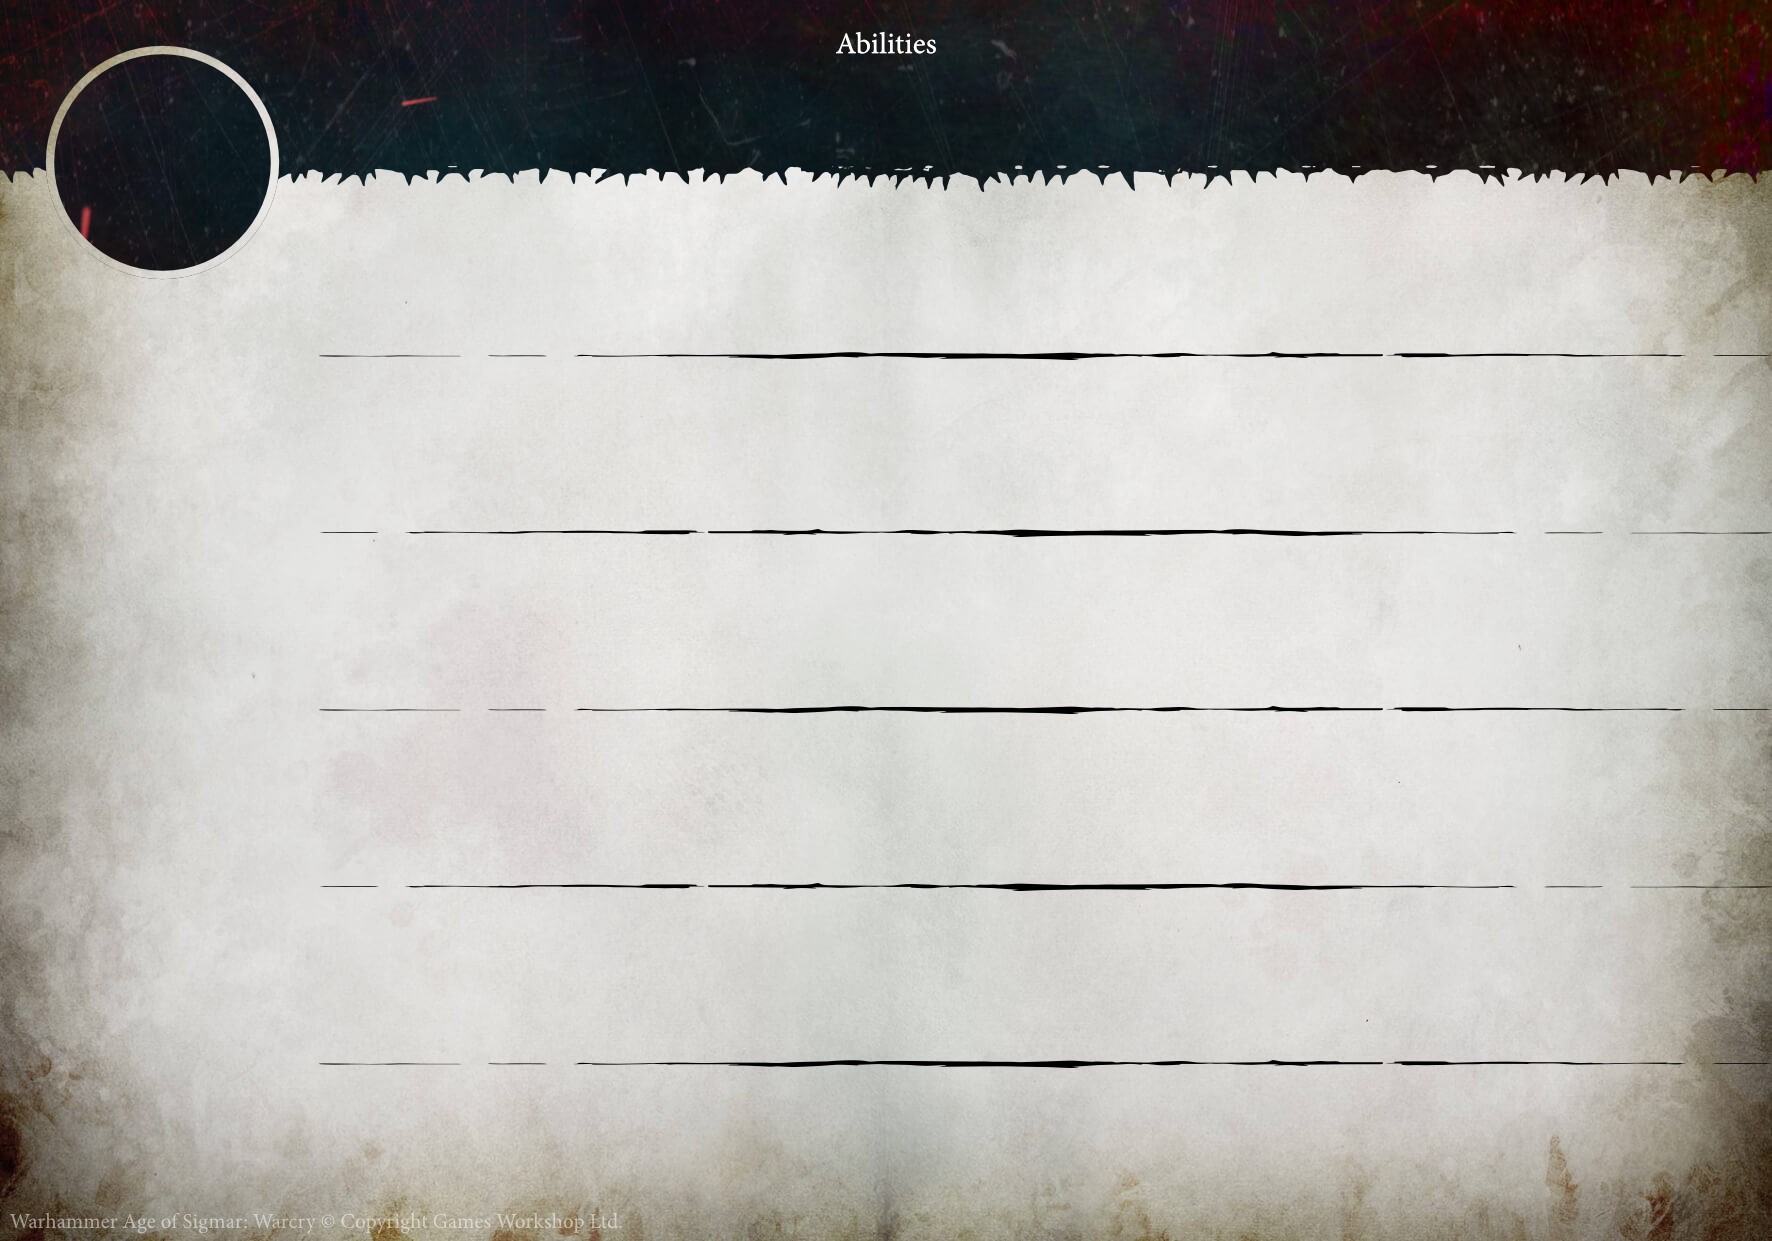
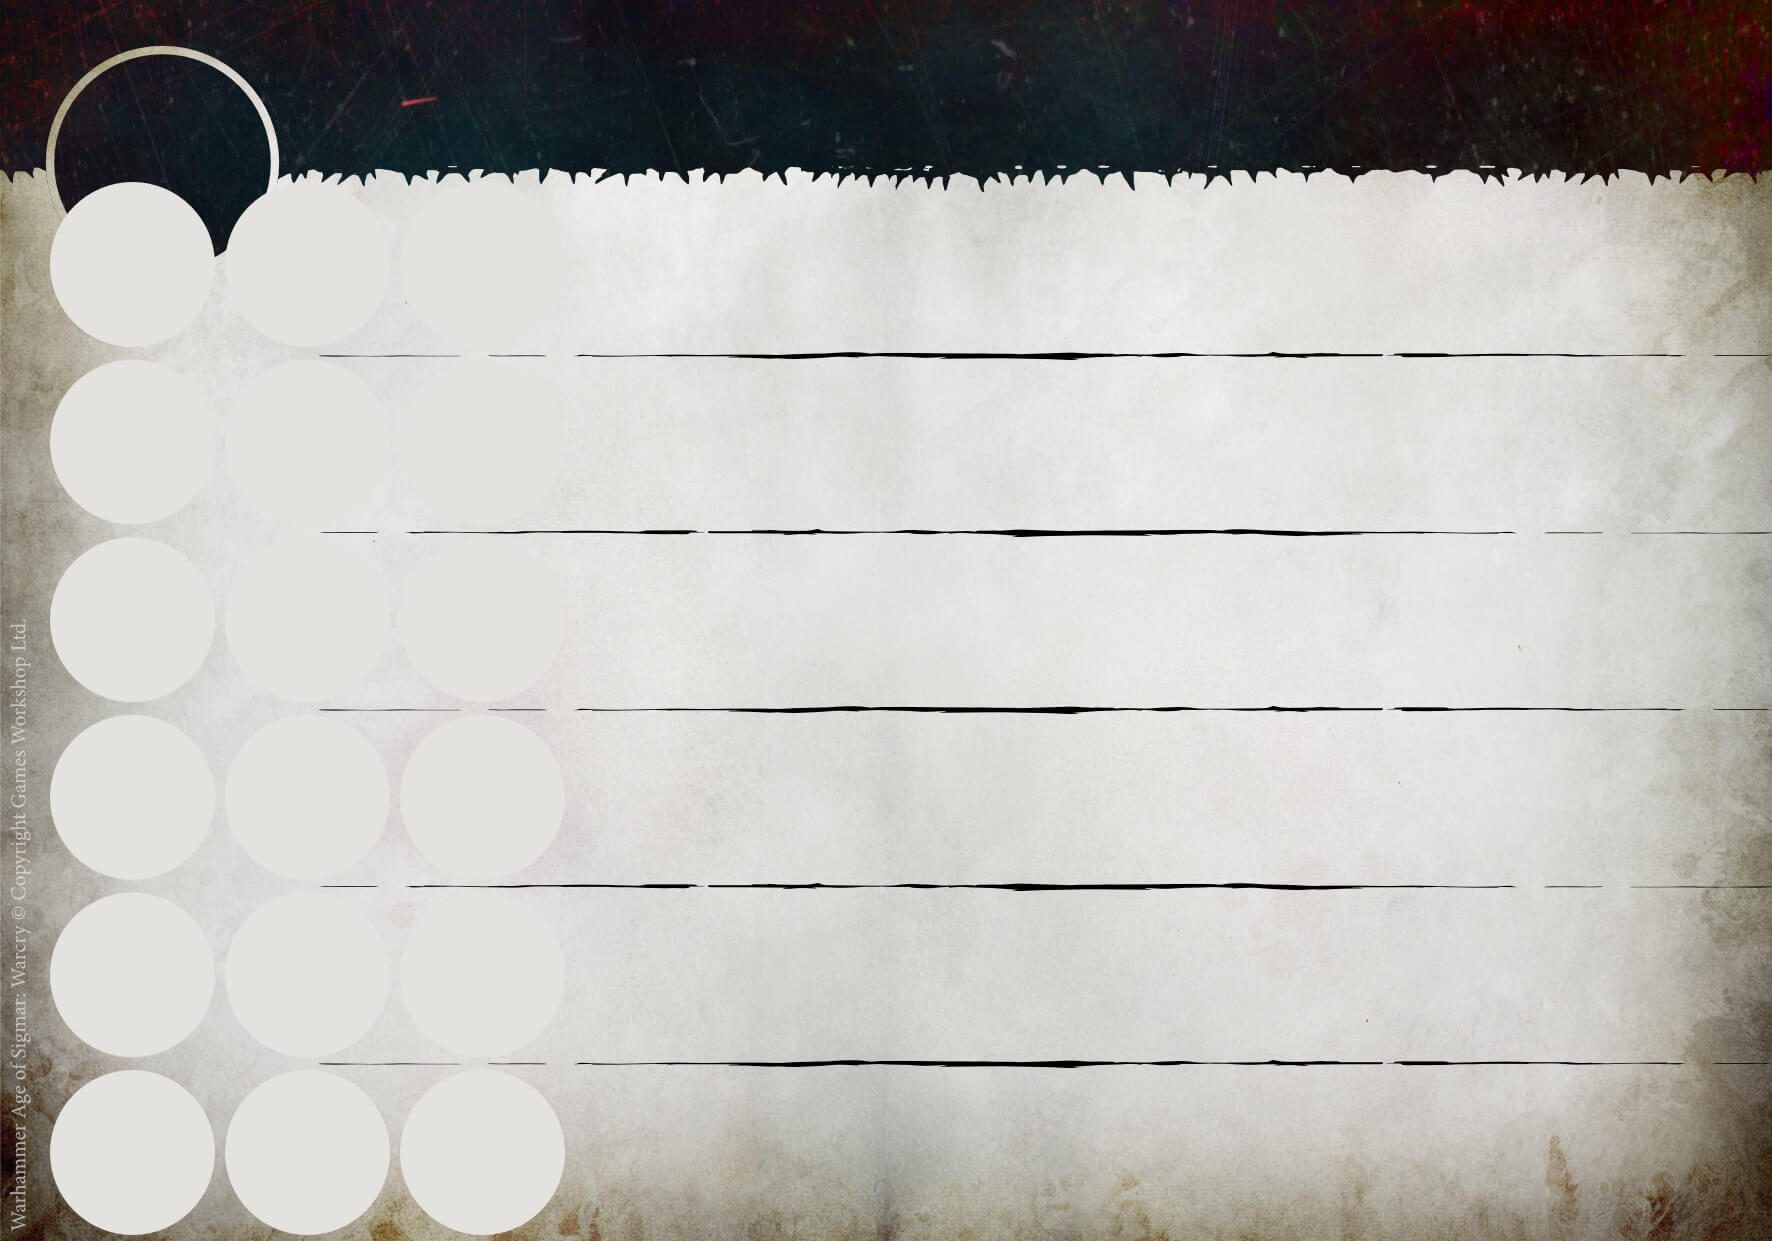
added subtitle to abilities, edited card layout, work-in-progress

Changed region(s): [[0.0, 0.1225, 0.3414, 1.0], [0.4656, 0.0306, 0.5277, 0.0612]]

diff --git a/_includes/abilities/section-abilities.html b/_includes/abilities/section-abilities.html
@@ -46,7 +46,7 @@
                                 <label class="form-check-label" for="ability1-quad">Quad</label>
                             </div>
                             <div class="form-check form-check-inline">
-                                <input class="form-check-input" id="ability1-none" name="ability1-dice" oninput="onAnyChange()" type="radio" value="">
+                                <input class="form-check-input" id="ability1-none" name="ability1-dice" oninput="onAnyChange()" type="radio" value="none">
                                 <label class="form-check-label" for="ability1-none">None</label>
                             </div>
                             <div class="form-group">
@@ -95,7 +95,7 @@
                                 <label class="form-check-label" for="ability2-quad">Quad</label>
                             </div>
                             <div class="form-check form-check-inline">
-                                <input class="form-check-input" id="ability2-none" name="ability2-dice" oninput="onAnyChange()" type="radio" value="">
+                                <input class="form-check-input" id="ability2-none" name="ability2-dice" oninput="onAnyChange()" type="radio" value="none">
                                 <label class="form-check-label" for="ability2-none">None</label>
                             </div>
                             <div class="form-group">
@@ -144,7 +144,7 @@
                                 <label class="form-check-label" for="ability3-quad">Quad</label>
                             </div>
                             <div class="form-check form-check-inline">
-                                <input class="form-check-input" id="ability3-none" name="ability3-dice" oninput="onAnyChange()" type="radio" value="">
+                                <input class="form-check-input" id="ability3-none" name="ability3-dice" oninput="onAnyChange()" type="radio" value="none">
                                 <label class="form-check-label" for="ability3-none">None</label>
                             </div>
                             <div class="form-group">
@@ -193,7 +193,7 @@
                                 <label class="form-check-label" for="ability4-quad">Quad</label>
                             </div>
                             <div class="form-check form-check-inline">
-                                <input class="form-check-input" id="ability4-none" name="ability4-dice" oninput="onAnyChange()" type="radio" value="">
+                                <input class="form-check-input" id="ability4-none" name="ability4-dice" oninput="onAnyChange()" type="radio" value="none">
                                 <label class="form-check-label" for="ability4-none">None</label>
                             </div>
                             <div class="form-group">
@@ -242,7 +242,7 @@
                                 <label class="form-check-label" for="ability5-quad">Quad</label>
                             </div>
                             <div class="form-check form-check-inline">
-                                <input class="form-check-input" id="ability5-none" name="ability5-dice" oninput="onAnyChange()" type="radio" value="">
+                                <input class="form-check-input" id="ability5-none" name="ability5-dice" oninput="onAnyChange()" type="radio" value="none">
                                 <label class="form-check-label" for="ability5-none">None</label>
                             </div>
                             <div class="form-group">
@@ -291,7 +291,7 @@
                                 <label class="form-check-label" for="ability6-quad">Quad</label>
                             </div>
                             <div class="form-check form-check-inline">
-                                <input class="form-check-input" id="ability6-none" name="ability6-dice" oninput="onAnyChange()" type="radio" value="">
+                                <input class="form-check-input" id="ability6-none" name="ability6-dice" oninput="onAnyChange()" type="radio" value="none">
                                 <label class="form-check-label" for="ability6-none">None</label>
                             </div>
                             <div class="form-group">

diff --git a/assets/js/abilities.js b/assets/js/abilities.js
@@ -104,6 +104,8 @@ drawAbility = function(id, pixelPosition) {
             var txt = '[Triple] ' + name + ': ' + text;
         } else if (quad.checked) {
             var txt = '[Quad] ' + name + ': ' + text;
+        } else if (none.checked) {
+            var txt = '';
         } else {
             var txt = name + ': ' + text;
         }
@@ -117,6 +119,13 @@ drawAbility = function(id, pixelPosition) {
             );
         }
     })();
+}
+
+drawCardSubtitle = function(value) {
+    getContext().font = '28px Georgia, serif';
+    getContext().fillStyle = 'white';
+    getContext().textAlign = 'center';
+    writeScaled(value, {x: (1772/2), y: 100});
 }
 
 drawCardTitle = function(value) {
@@ -501,6 +510,7 @@ function readControls()
     data.imageUrl = getModelImage();
     data.imageProperties = getModelImageProperties();
 
+    data.cardSubtitle = document.getElementById('card-subtitle').value;
     data.cardTitle = document.getElementById('card-title').value;
 
     data.factionRunemark = getSelectedFactionRunemark();
@@ -540,6 +550,7 @@ render = function(fighterData) {
     drawBackground();
     drawModel(fighterData.imageUrl, fighterData.imageProperties);
 
+    drawCardSubtitle(fighterData.cardSubtitle);
     drawCardTitle(fighterData.cardTitle);
 
     drawFactionRunemark(fighterData.factionRunemark);
@@ -600,7 +611,7 @@ function writeControls(fighterData)
     setModelImage(fighterData.imageUrl);
     setModelImageProperties(fighterData.imageProperties);
 
-    // setCardTitle(fighterData.cardTitle);
+    $('#card-subitle')[0].value = fighterData.cardSubtitle;
     $('#card-title')[0].value = fighterData.cardTitle;
 
     setSelectedFactionRunemark(fighterData.factionRunemark);
@@ -634,6 +645,7 @@ function defaultFighterData() {
     fighterData.imageUrl = null;
     fighterData.imageProperties = getDefaultModelImageProperties();
 
+    fighterData.cardSubtitle = 'Abilities';
     fighterData.cardTitle = 'Iron Golem';
 
     fighterData.factionRunemark = 'runemarks/white/factions/iron-golem.svg';

diff --git a/_includes/abilities/section-title.html b/_includes/abilities/section-title.html
@@ -3,13 +3,18 @@
     <div class="card-header" id="abilitiesHeadingZero">
         <h2 class="h5 mb-0">
             <button class="btn btn-link" data-toggle="collapse" data-target="#abilitiesCollapseZero" aria-expanded="false" aria-controls="abilitiesCollapseZero">
-                Title
+                Subtitle and title
             </button>
         </h2>
     </div>
 
     <div class="collapse" id="abilitiesCollapseZero">
         <div class="card-body">
+
+            <div class="form-group">
+                <label for="card-subtitle">Subtitle</label>
+                <input class="form-control" type="text" id="card-subtitle" name="card-subtitle" value="Abilities" oninput="onAnyChange()">
+            </div>
 
             <div class="form-group">
                 <label for="card-title">Title</label>
